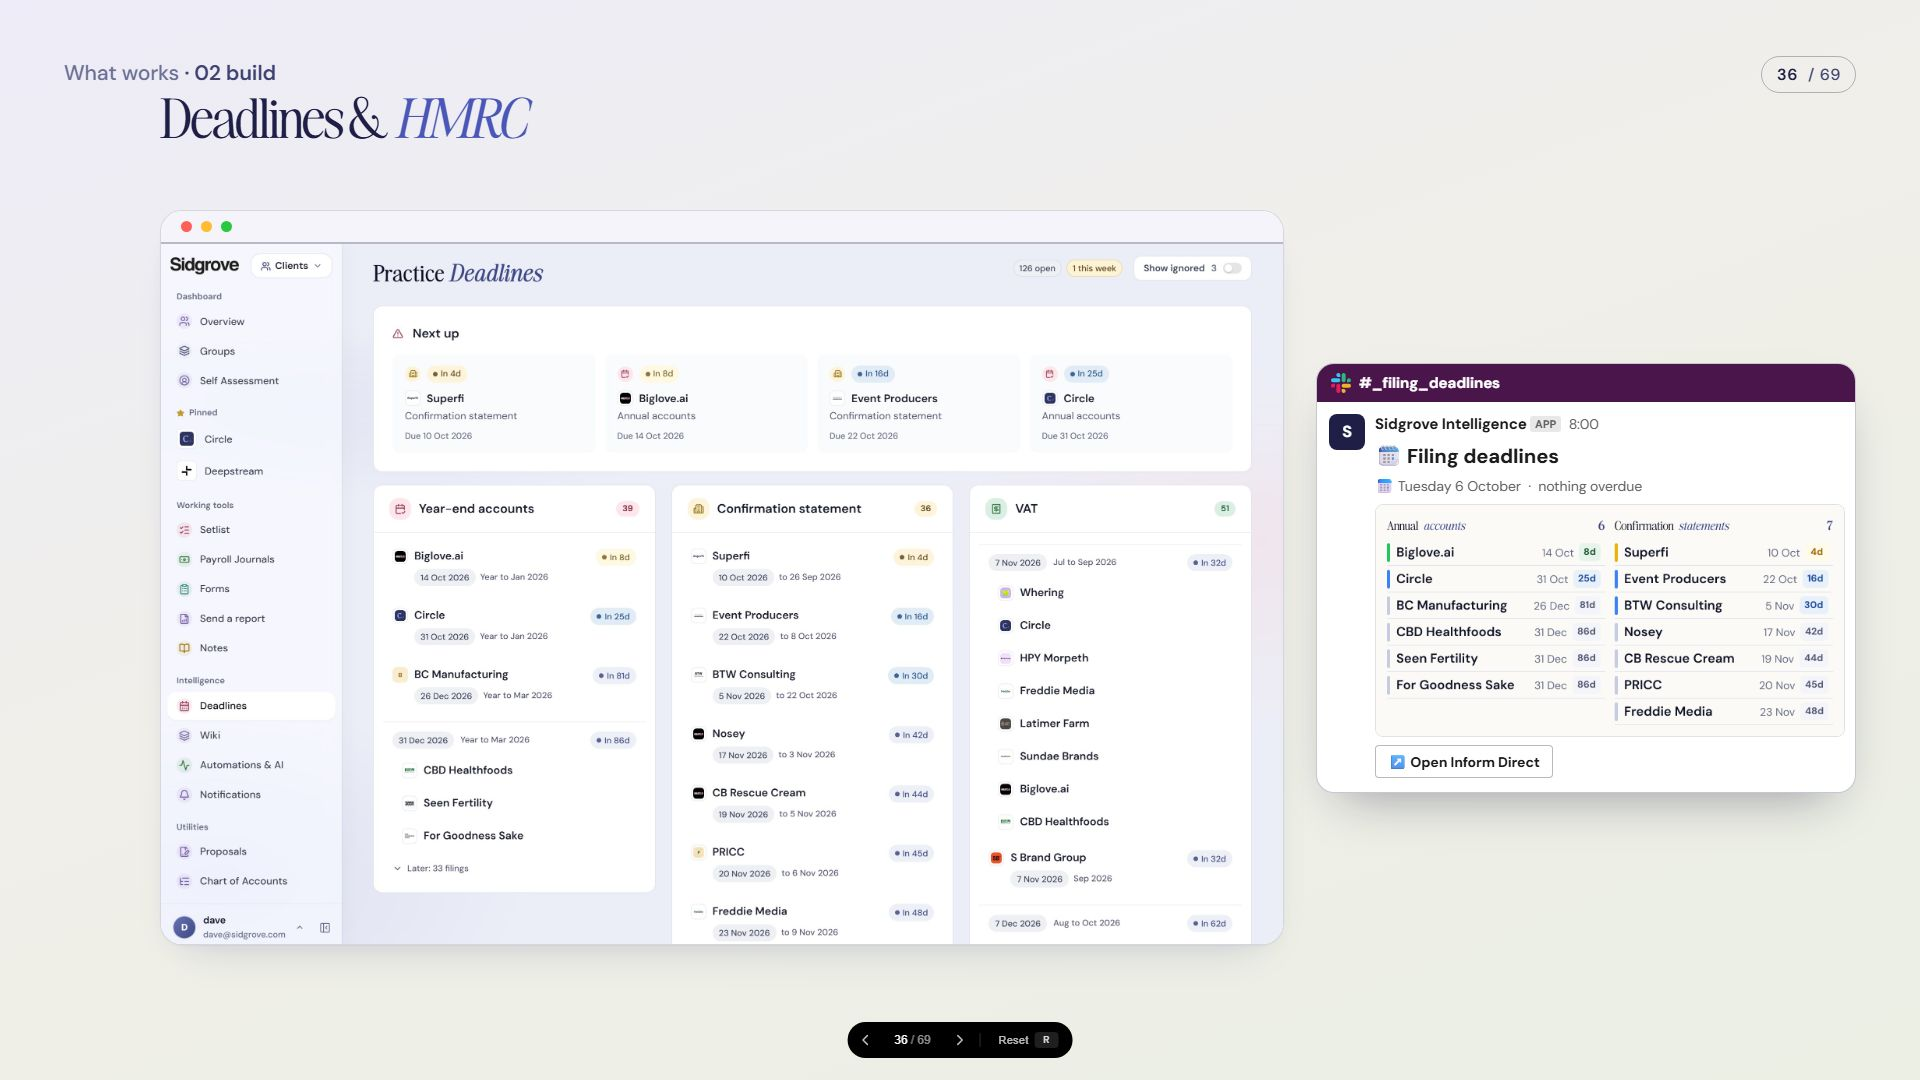
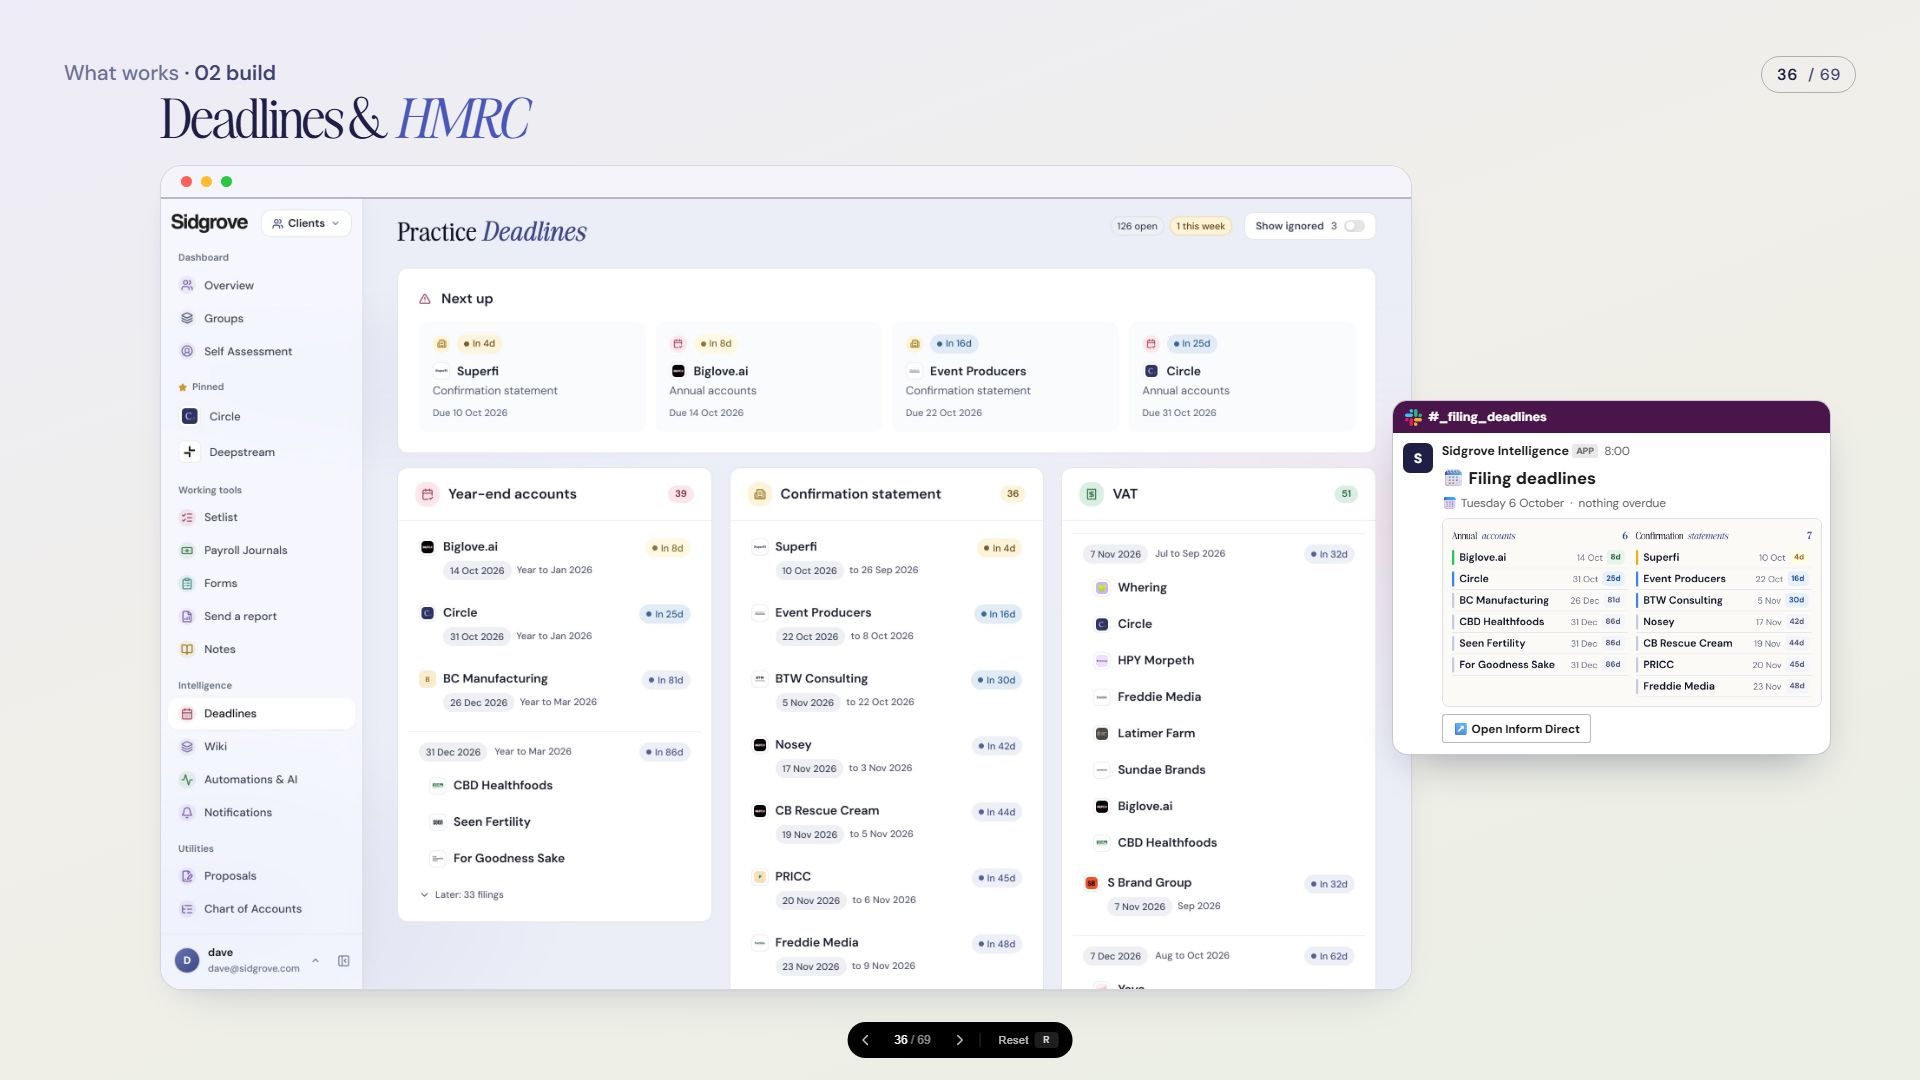
Auto Bank Wreck: screens lead and Slack cards tuck beside them, a third extra strong venue look, and a USB folder builder with PDF

diff --git a/presentations/auto-bank-wreck/index.html b/presentations/auto-bank-wreck/index.html
@@ -4822,8 +4822,12 @@ p.perm-sub { font-size: 20px; } .perm-row .ck { font-size: 20px; } .perm-actions
 .fill .duo.with-side .shot img { height: auto; }
 /* The cards carry the app's own artwork (review banners, the deadlines board,
    the VAT cover), so they get the width to show it. */
-.pair { grid-template-columns: auto 540px; gap: 32px; }
-.feat-head ~ .fill .pair .shot img { height: 700px; }
+.pair { display: flex; align-items: center; gap: 0; }
+.feat-head ~ .fill .pair .shot { flex: none; }
+.feat-head ~ .fill .pair .shot img { height: 790px; }
+/* The screen is the subject: it takes the height, and the card (scaled down)
+   laps its right-hand edge by a few pixels rather than costing it width. */
+.slide .pair .slack-inset.side { flex: none; position: relative; z-index: 2; width: 520px; zoom: 0.84; margin-left: -24px; }
 .slide .slack-inset.side .si-msg { gap: 10px; padding: 12px 12px 14px; }
 .slide .slack-inset.side .si-av { width: 36px; height: 36px; font-size: 16px; }
 .slide .slack-inset.side .si-thread { margin-left: 58px; }
@@ -5012,6 +5016,27 @@ html[data-screen="venue"] .wl-pline { color: #fff; }
 html[data-screen="venue"] :is(.shot img, .app-win img, .dash-browser img, .me-tile img, .xl-shot img, .phone img, .abr-hero img, .rc-wrap img, .sk-image, .sk-banner),
 html[data-screen="venue"] .rc-loupe { filter: brightness(0.96) contrast(1.06) saturate(1.5); }
 html[data-screen="venue"] .press-card img { filter: contrast(1.08); }
+
+/* ── Venue, extra strong (data-boost="max" on top of the venue look): the
+      fallback when the real screen still washes the venue look out. Deeper
+      grounds, heavier edges and type, screenshots pushed harder. It is heavy
+      on a good monitor by design. ── */
+html[data-screen="venue"][data-boost="max"] {
+  --venue-edge: #3F4279; --venue-rule: #5E6194;
+  --ink: #0B0B26; --ink-700: #0F0F30; --ink-500: #17183E; --ink-300: #2B2E5C;
+  --periwinkle-700: #2430A0; --periwinkle-500: #3F4CD0;
+  --green-600: #2A560A; --amber: #5C3600;
+}
+html[data-screen="venue"][data-boost="max"] .slide,
+html[data-screen="venue"][data-boost="max"] .slide[data-label="Copilot, never the pilot"] { background: linear-gradient(160deg, #CBC9EE 0%, #D7D5E2 46%, #C8D6C5 100%) !important; }
+html[data-screen="venue"][data-boost="max"] .slide.paper-soft { background: linear-gradient(160deg, #C4C2E8 0%, #D0CEDC 46%, #C0CFBD 100%) !important; }
+html[data-screen="venue"][data-boost="max"] .slide.ink { background: #0B0B26 !important; }
+html[data-screen="venue"][data-boost="max"] .slide:is([data-label="Cover"], [data-label="Thank you"]) { background: linear-gradient(150deg, #B0AFF0 0%, #BFBCF2 40%, #CDCAF2 100%) !important; }
+html[data-screen="venue"][data-boost="max"] .slide.peach { background: linear-gradient(140deg, #F2B39A 0%, #F1C3B1 60%, #ECD0C3 100%) !important; }
+html[data-screen="venue"][data-boost="max"] :is(.shot img, .app-win img, .dash-browser img, .me-tile img, .xl-shot img, .phone img, .abr-hero img, .rc-wrap img, .sk-image, .sk-banner),
+html[data-screen="venue"][data-boost="max"] .rc-loupe { filter: brightness(0.93) contrast(1.14) saturate(1.85); }
+html[data-screen="venue"][data-boost="max"] :is(.shot.window, .app-win, .slack-inset) { outline: 3px solid var(--venue-edge); outline-offset: -1px; }
+html[data-screen="venue"][data-boost="max"] :is(.sub, .why-tagline, .section-tag) { font-weight: 600; }
 html[data-screen="venue"] .slack-inset :is(.sk-app, .si-time, .sk-context, .si-ctx) { color: #3A393A; }
 html[data-screen="venue"] .slack-inset .sk-btn:not(.primary):not(.danger) { border-color: #6B6A6B; }
 html[data-screen="venue"] .slack-inset :is(.sk-divider, .si-thread) { border-top-color: #A9A8A9; }
@@ -5077,14 +5102,17 @@ html[data-screen="venue"] .xw-btn { background: #F9D777; border: 2px solid #8A64
   })();
 </script>
 <script>
-  // Two looks: standard (default) and venue (big bright LCD). ?screen=venue on
-  // the URL sets it, as venue.html does. V flips it live and the choice is
+  // Three looks: standard (default), venue (big bright LCD) and venue-max (the
+  // venue look pushed further). ?screen= on the URL sets it, as venue.html and
+  // venue-max.html do. V steps through them live and the choice is
   // remembered per deck; a ?screen= on the URL always wins on load. The look is
   // named in the notes panel and, for two seconds after a flip, in the corner.
   (() => {
     const root = document.documentElement;
     const key = 'deck-stage:screen:' + (location.pathname || '/');
-    const valid = (v) => (v === 'venue' || v === 'standard' ? v : null);
+    const LOOKS = ['standard', 'venue', 'venue-max'];
+    const NAMES = { standard: 'Standard', venue: 'Venue', 'venue-max': 'Venue, extra strong' };
+    const valid = (v) => (LOOKS.includes(v) ? v : null);
     const params = new URLSearchParams(location.search);
     const fromUrl = valid(params.get('screen'));
     let stored = null;
@@ -5097,23 +5125,27 @@ html[data-screen="venue"] .xw-btn { background: #F9D777; border: 2px solid #8A64
     look.className = 'np-look';
     if (head) head.insertBefore(look, head.querySelector('.np-hint'));
     let timer = null;
+    let current = 'standard';
     const apply = (v, announce) => {
-      root.setAttribute('data-screen', v);
-      look.textContent = v + ' look';
+      current = v;
+      // The extra strong look is the venue look plus a boost.
+      root.setAttribute('data-screen', v === 'standard' ? 'standard' : 'venue');
+      if (v === 'venue-max') root.setAttribute('data-boost', 'max'); else root.removeAttribute('data-boost');
+      look.textContent = NAMES[v] + ' look';
       if (!announce) return;
-      flag.textContent = (v === 'venue' ? 'Venue' : 'Standard') + ' look · V to switch';
+      flag.textContent = NAMES[v] + ' look · V to switch';
       flag.hidden = false;
       clearTimeout(timer);
       timer = setTimeout(() => { flag.hidden = true; }, 2000);
     };
     // Announce on load only when a remembered venue look is in play.
-    apply(fromUrl || stored || 'standard', !fromUrl && stored === 'venue');
+    apply(fromUrl || stored || 'standard', !fromUrl && !!stored && stored !== 'standard');
     window.addEventListener('keydown', (e) => {
       if (e.metaKey || e.ctrlKey || e.altKey) return;
       const t = e.target;
       if (t && (t.isContentEditable || /^(INPUT|TEXTAREA|SELECT)$/.test(t.tagName))) return;
       if (e.key !== 'v' && e.key !== 'V') return;
-      const next = root.getAttribute('data-screen') === 'venue' ? 'standard' : 'venue';
+      const next = LOOKS[(LOOKS.indexOf(current) + 1) % LOOKS.length];
       apply(next, true);
       try { localStorage.setItem(key, next); } catch (err) { /* ignore */ }
       // Keep a ?screen= on the URL in step, so a refresh holds the look.

diff --git a/presentations/auto-bank-wreck/venue-max.html b/presentations/auto-bank-wreck/venue-max.html
@@ -1,0 +1,20 @@
+<!doctype html>
+<html lang="en">
+<head>
+<meta charset="utf-8" />
+<title>Auto Bank Wreck - Dave Sellick (venue look, extra strong)</title>
+<!-- The extra strong venue look of the deck: a doorway, not a copy. It opens index.html
+     with ?screen=venue-max (works from file:// too), so the two cannot drift.
+     Any ?slide= / ?notes / #N on this URL is carried across. -->
+<script>
+  (() => {
+    const q = new URLSearchParams(location.search);
+    q.set('screen', 'venue-max');
+    location.replace('index.html?' + q + location.hash);
+  })();
+</script>
+</head>
+<body>
+<p><a href="index.html?screen=venue-max">Open the deck in the extra strong venue look</a></p>
+</body>
+</html>
